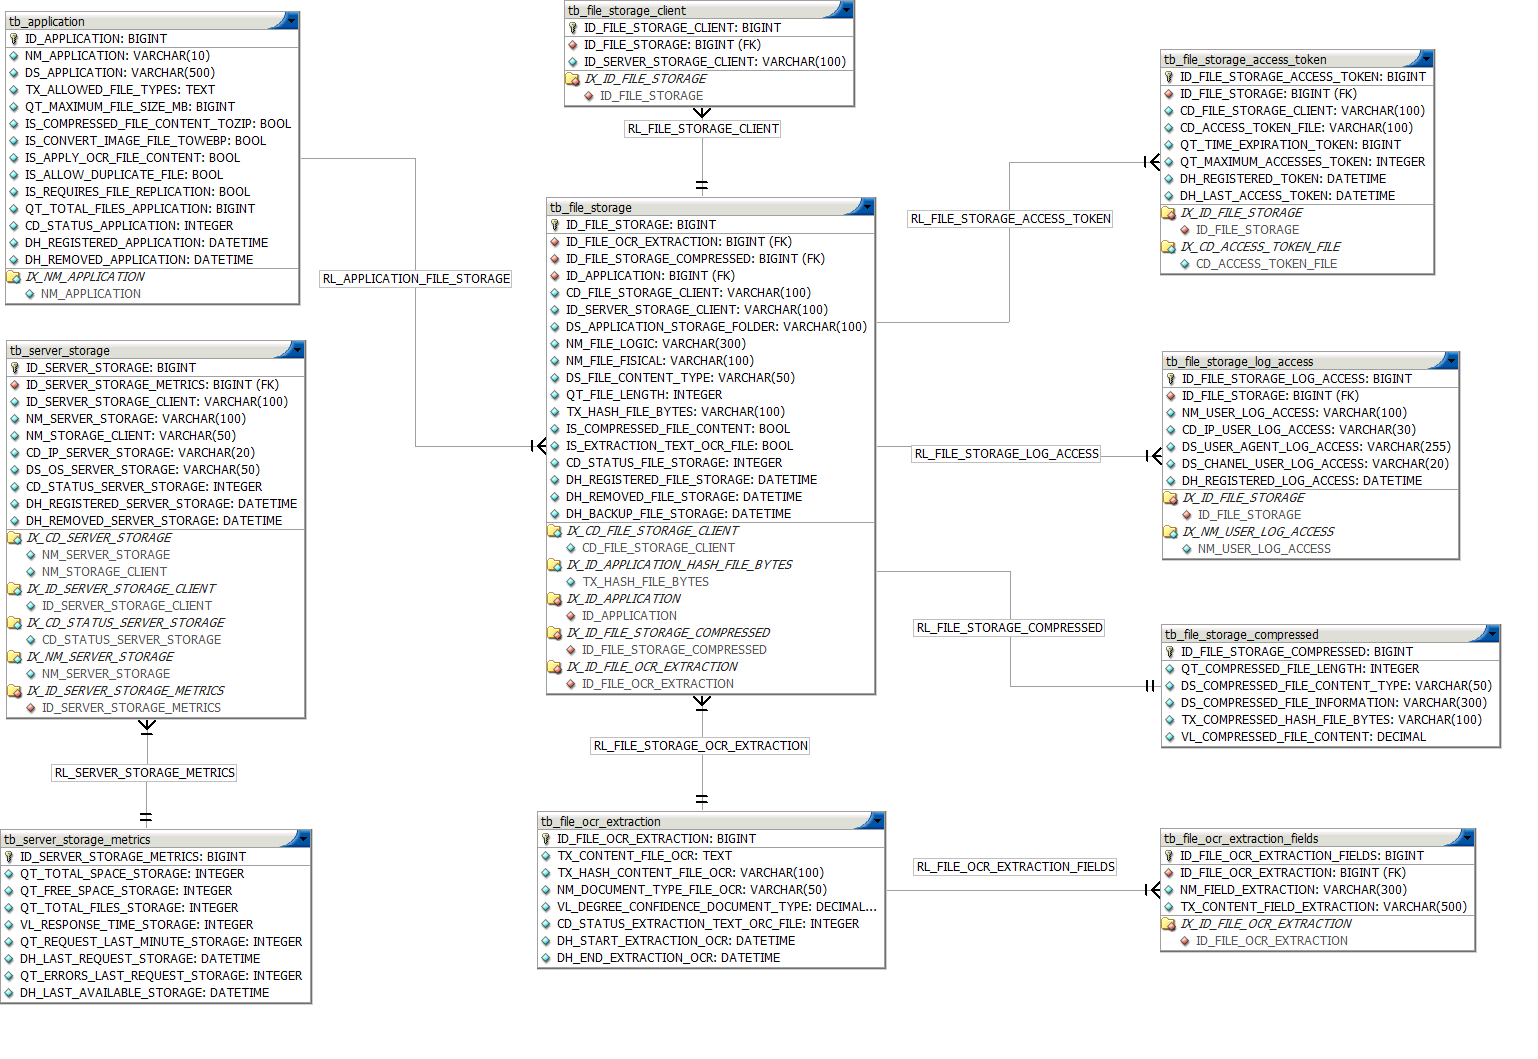
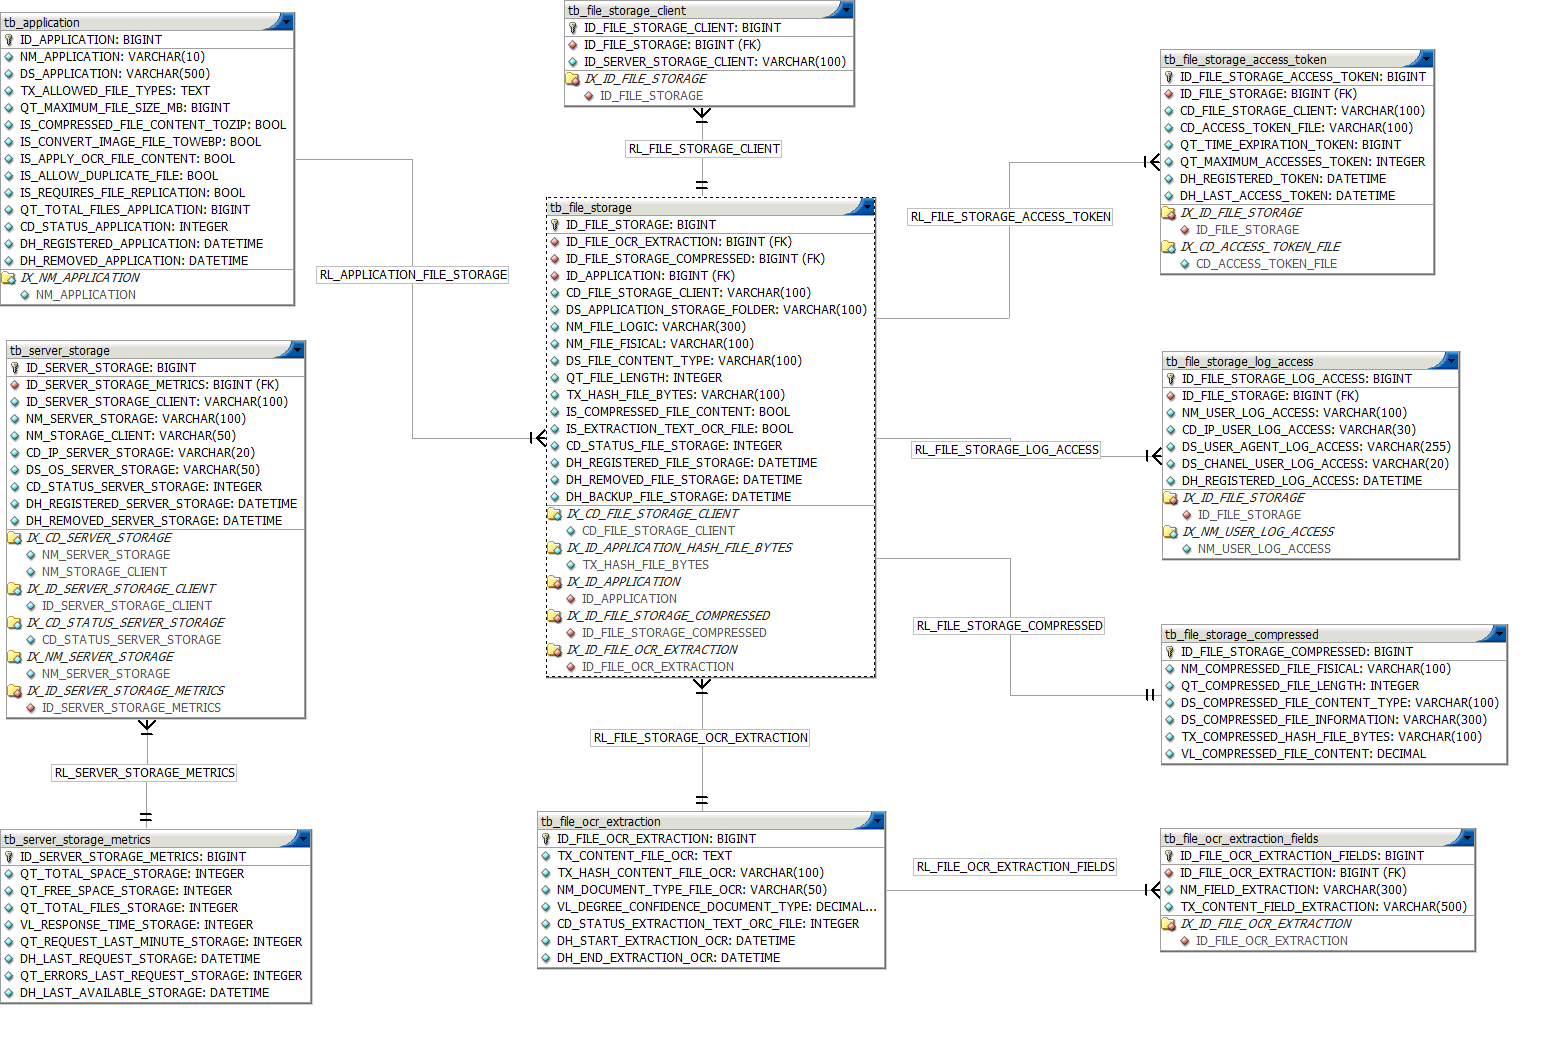
Melhoria na implementação da recuperação de arquivos do servidor e ajuste na modelagem de dados.

diff --git a/meshstorage-server/src/main/java/br/com/devd2/meshstorageserver/services/FileStorageService.java b/meshstorage-server/src/main/java/br/com/devd2/meshstorageserver/services/FileStorageService.java
@@ -106,28 +106,34 @@ public class FileStorageService {
         var fileStorageMessage = new FileDownloadMessage();
         fileStorageMessage.setIdFile(fileStorage.getIdFile());
         fileStorageMessage.setFileName(fileStorage.getFileFisicalName());
+        if (fileStorage.isCompressedFileContent() && fileStorage.getFileCompressed() != null)
+            fileStorageMessage.setFileName(fileStorage.getFileCompressed().getCompressedFileFisicalName());
         fileStorageMessage.setApplicationStorageFolder(fileStorage.getApplicationStorageFolder());
         try {
 
+            //TODO implementar para retornar em qual ServerStorage o arquivo foi recurado... ;)
             var fileStorageClientDownload = downloadFileStorageClient(fileStorage.getListFileStorageClient(), fileStorageMessage);
 
             //Carregar os dados do arquivo.
             byte[] bytesFile = FileBase64Util.base64ToBytes(fileStorageClientDownload.getDataBase64());
-            if (fileStorage.isCompressedFileContent()) {
+            if (fileStorage.isCompressedFileContent() && fileStorage.getFileCompressed() != null
+                    && !FileContentTypesEnum.WEBP.getContentType().equals(fileStorage.getFileCompressed()
+                    .getCompressedFileContentType())) {
                 bytesFile = FileUtil.descompressZipFileContent(bytesFile);
             }
 
             //Verificar se o hash do arquivo de download está conforme o armazenado no upload ;)
             var hashFileDownload = FileUtil.hashConteudoBytes(bytesFile);
             var hashFileEntity = fileStorage.getHashFileBytes();
-            if (fileStorage.isCompressedFileContent() && fileStorage.getFileCompressed()!=null &&
-                    fileStorage.getFileCompressed().getCompressedHashFileBytes()!=null &&
-                    !fileStorage.getFileCompressed().getCompressedHashFileBytes().isEmpty()) {
+            if (fileStorage.isCompressedFileContent() && fileStorage.getFileCompressed()!=null
+                    && FileContentTypesEnum.WEBP.getContentType().equals(fileStorage.getFileCompressed()
+                    .getCompressedFileContentType())) {
                 hashFileEntity = fileStorage.getFileCompressed().getCompressedHashFileBytes();
             }
             if (!hashFileEntity.equals(hashFileDownload))
                 log.warn("Arquivo [{}] com HASH diferente, esse arquivo pode ter sido manipulado no Storage!",
                         pathFileStorage);
+            //TODO adicionar na mensagem o Id ServerStorage onde o arquivo está ;)
 
             fileStorage.setFileContent(bytesFile);
 
@@ -199,6 +205,7 @@ public class FileStorageService {
             int lengthBytesCompressed = 0;
             String fileCompressionInformation = "";
             String contentTypeFile = file.getContentType();
+            String nameFileCompressed = "";
             String hashFileBytesCompressed = "";
             String contentTypeFileCompressed = "";
             double percentualFileCompressed = 0;
@@ -219,14 +226,14 @@ public class FileStorageService {
                 try {
                     bytesFile = FileUtil.compressZipFileContent(nomeFisicoArquivo, bytesFile);
                     lengthBytesCompressed = bytesFile.length;
-                    nomeFisicoArquivo = FileUtil.changeFileNameExtension(nomeFisicoArquivo, FileContentTypesEnum.ZIP.getExtension());
+                    nameFileCompressed = FileUtil.changeFileNameExtension(nomeFisicoArquivo, FileContentTypesEnum.ZIP.getExtension());
                     percentualFileCompressed = 100.0 - ((double) lengthBytesCompressed / lengthBytes * 100);
                     fileCompressionInformation = contentTypeFile + " >> " + FileContentTypesEnum.ZIP.getContentType() +
                             " [compressão de: " + HelperFormat.formatPercent(percentualFileCompressed) + "]";
                     isFileCompressedContent = true;
                     //Como a conversão foi bem sucedida precisamos gerar o HASH dos bytes do arquivo comprimido.
                     hashFileBytesCompressed = FileUtil.hashConteudoBytes(bytesFile);
-                    contentTypeFileCompressed = FileContentTypesEnum.ZIP.getContentType();
+                    contentTypeFileCompressed = contentTypeFile; //Como o arquivo é descompactado, manter o memso.
                 } catch (Exception error) {
                     log.error("Erro ao realizar compressão do arquivo.", error);
                 }
@@ -240,8 +247,9 @@ public class FileStorageService {
                     byte[] bytesFileWebp = FileUtil.convertImagemToWebp(bytesFile, quality_compressed_webp);
                     if (bytesFileWebp.length != 0 && bytesFileWebp.length < lengthBytes) {
                         lengthBytesCompressed = bytesFileWebp.length;
-                        nomeFisicoArquivo = FileUtil.changeFileNameExtension(nomeFisicoArquivo,
+                        nameFileCompressed = FileUtil.changeFileNameExtension(nomeFisicoArquivo,
                                 FileContentTypesEnum.WEBP.getExtension());
+                        nomeFisicoArquivo = nameFileCompressed; //Manter o nome.
                         percentualFileCompressed = 100.0 - ((double) bytesFileWebp.length / lengthBytes * 100);
                         fileCompressionInformation = contentTypeFile + " >> " + FileContentTypesEnum.
                                 WEBP.getContentType() + " [quality: " + quality_compressed_webp + ", compressão de: " +
@@ -271,6 +279,7 @@ public class FileStorageService {
             //Informações da compressão do arquivo...
             if (isFileCompressedContent) {
                 var fileStorageCompressedEntity = new FileStorageCompressed();
+                fileStorageCompressedEntity.setCompressedFileFisicalName(nameFileCompressed);
                 fileStorageCompressedEntity.setCompressedFileLength(lengthBytesCompressed);
                 fileStorageCompressedEntity.setCompressedFileContentType(contentTypeFileCompressed);
                 fileStorageCompressedEntity.setCompressionFileInformation(fileCompressionInformation);

diff --git a/meshstorage-server/src/main/java/br/com/devd2/meshstorageserver/services/cache/ServerStorageCache.java b/meshstorage-server/src/main/java/br/com/devd2/meshstorageserver/services/cache/ServerStorageCache.java
@@ -4,12 +4,16 @@ import br.com.devd2.meshstorageserver.entites.ServerStorage;
 import br.com.devd2.meshstorageserver.entites.ServerStorageMetrics;
 import br.com.devd2.meshstorageserver.models.enums.ServerStorageStatusEnum;
 import br.com.devd2.meshstorageserver.repositories.ServerStorageRepository;
+import com.github.benmanes.caffeine.cache.Cache;
+import com.github.benmanes.caffeine.cache.Caffeine;
 import lombok.extern.slf4j.Slf4j;
 import org.springframework.beans.factory.annotation.Value;
 import org.springframework.stereotype.Service;
 
+import java.time.Duration;
 import java.util.*;
 import java.util.concurrent.ConcurrentHashMap;
+import java.util.concurrent.ConcurrentMap;
 import java.util.stream.Collectors;
 
 @Slf4j
@@ -26,6 +30,14 @@ public class ServerStorageCache {
     private double weight_request_last_minute;
     @Value("${weight-errors-last-request:0}")
     private double weight_errors_last_request;
+
+    //Chave de cache para recuperar o Score, se existir.
+    public record MetricKeyScore(String id,
+            long free, long total, long resp, int req, int err) {}
+    private Cache<MetricKeyScore, Double> cacheScore = Caffeine.newBuilder()
+            .expireAfterWrite(Duration.ofMinutes(5)) //5 Minutos no cache
+            .maximumSize(10_000)
+            .build();
 
     public ServerStorageCache(ServerStorageRepository serverStorageRepository) {
         this.serverStorageRepository = serverStorageRepository;
@@ -171,29 +183,53 @@ public class ServerStorageCache {
         int maxRequestLastMinute = listMetricsAvaliableStorages.stream()
                 .mapToInt(ServerStorageMetrics::getRequestLastMinute).max().orElse(0);
 
-        var score = calcScore(storage.getMetrics(), maxResponseTime, maxRequestLastMinute);
-        log.info("ServerStorage: {} => Score: {}", storage.getIdServerStorageClient(), score);
-        return score;
+        var metrics = storage.getMetrics();
+
+        var keyMetrics = new MetricKeyScore(storage.getIdServerStorageClient(),
+                metrics.getFreeSpace(), metrics.getTotalSpace(),
+                metrics.getResponseTime(), metrics.getRequestLastMinute(), metrics.getErrosLastRequest());
+
+        Double scoreDouble = null;
+        scoreDouble = cacheScore.get(keyMetrics, k ->
+                calcScore(storage.getMetrics(), maxResponseTime, maxRequestLastMinute));
+
+        if (log.isDebugEnabled())
+            log.debug("ServerStorage: {} => Score: {}", storage.getIdServerStorageClient(), scoreDouble);
+
+        return scoreDouble == null ? 0 : scoreDouble;
 
     }
 
     /**
      * Responsável por calcular o Score
-     * @param storageMetrics - Métricas do Server Storage
-     * @param maxResponseTime - Tempo máximo de requisição de todos os Server Storages ativos.
-     * @param maxRequestLastMinute - Quantidade máxima de requisições nos últimos 10 minutos.
+     * @param metrics - Métricas do Server Storage
+     * @param maxRespTime - Tempo máximo de requisição de todos os Server Storages ativos.
+     * @param maxReqsMinute - Quantidade máxima de requisições nos últimos 10 minutos.
      * @return Score calculado.
      */
-    private double calcScore(ServerStorageMetrics storageMetrics, long maxResponseTime, int maxRequestLastMinute) {
-        double freeSpace  = storageMetrics.getTotalSpace() !=0 ?
-                ((double) storageMetrics.getFreeSpace() / storageMetrics.getTotalSpace()) : 0; // 0‑1
-        double respTime   = maxResponseTime != 0 ?
-                ((double) storageMetrics.getResponseTime() / maxResponseTime) : 0;             // 0‑1 (quanto MAIOR = pior)
-        double reqsMinute = maxRequestLastMinute != 0 ?
-                ((double) storageMetrics.getRequestLastMinute() / maxRequestLastMinute) : 0;   // 0‑1
-        double errsMinute = storageMetrics.getErrosLastRequest();                              // 0‑1
-        return  ((weight_free_space * freeSpace) - (weight_response_time * respTime) -
-                (weight_request_last_minute * reqsMinute) - (weight_errors_last_request * errsMinute));
+    private double calcScore(ServerStorageMetrics metrics, long maxRespTime, int maxReqsMinute) {
+
+        int maxErrsMinute = metrics.getErrosLastRequest();
+        /* Normaliza cada métrica para 0..1 (quanto maior, melhor) */
+        double free   = ratio(metrics.getFreeSpace(), metrics.getTotalSpace());     // ↑ bom
+        double rtGood = 1.0 - ratio(metrics.getResponseTime(),      maxRespTime);   // ↓ bom
+        double load   = 1.0 - ratio(metrics.getRequestLastMinute(), maxReqsMinute); // ↓ bom
+        double errs   = 1.0 - ratio(metrics.getErrosLastRequest(),  maxErrsMinute); // ↓ bom
+
+        /* pesos (soma = 1.0) */
+        double score =  weight_free_space           * free +
+                        weight_response_time        * rtGood +
+                        weight_request_last_minute  * load +
+                        weight_errors_last_request  * errs;
+
+        /* Garante dentro de 0..1, caso algum valor extrapole */
+        return Math.max(0, Math.min(1, score));
+
+    }
+
+    /** calcula razão protegendo divisão por zero  */
+    private static double ratio(long part, long total) {
+        return total == 0 ? 0.0 : (double) part / total; // 0‥1
     }
 
 }

diff --git a/meshstorage-server/src/main/java/br/com/devd2/meshstorageserver/services/ServerStorageService.java b/meshstorage-server/src/main/java/br/com/devd2/meshstorageserver/services/ServerStorageService.java
@@ -11,6 +11,8 @@ import br.com.devd2.meshstorageserver.services.cache.ServerStorageCache;
 import lombok.extern.slf4j.Slf4j;
 import org.springframework.scheduling.annotation.Async;
 import org.springframework.stereotype.Service;
+import org.springframework.transaction.annotation.Propagation;
+import org.springframework.transaction.annotation.Transactional;
 
 import java.time.LocalDateTime;
 import java.util.Comparator;
@@ -237,6 +239,7 @@ public class ServerStorageService {
      * @param responseTime - Tempo de resposta a requisição para o Servidor de Armanzenamento.
      */
     @Async("metricsResponseTimeAndRequestCount")
+    @Transactional(propagation = Propagation.REQUIRES_NEW)
     public void updateMetricsResponseTimeAndRequestCount(String idServerStorageClient, long responseTime) {
 
         if (idServerStorageClient == null || idServerStorageClient.isEmpty()) {
@@ -253,7 +256,7 @@ public class ServerStorageService {
             return;
         }
 
-        log.info("Atualizar ServerStorageClient: {} - Tempo Resposta: {} e adicionar +1 requisição.",
+        log.debug("Atualizar ServerStorageClient: {} - Tempo Resposta: {} e adicionar +1 requisição.",
                 idServerStorageClient, responseTime);
 
         /*
@@ -287,7 +290,8 @@ public class ServerStorageService {
      * Realiza atualização nas métricas do Servidor de Armazenamento quantidade de Erros.
      * @param idServerStorageClientErrors - List[String] de Ids de Servidores que geraram erro de cominucação.
      */
-    @Async("metricErrors")
+    @Async("metricsErrors")
+    @Transactional(propagation = Propagation.REQUIRES_NEW)
     public void updateMetricsErrors(List<String> idServerStorageClientErrors) {
 
         if (idServerStorageClientErrors == null || idServerStorageClientErrors.isEmpty()) {
@@ -306,7 +310,7 @@ public class ServerStorageService {
                 return;
             }
 
-            log.info("Atualizar ServerStorageClient: {} - erro identificado.", idServerStorageClient);
+            log.debug("Atualizar ServerStorageClient: {} - erro identificado.", idServerStorageClient);
 
             /*
              Regras:

diff --git a/meshstorage-server/src/main/java/br/com/devd2/meshstorageserver/controllers/FileStorageController.java b/meshstorage-server/src/main/java/br/com/devd2/meshstorageserver/controllers/FileStorageController.java
@@ -72,9 +72,12 @@ public class FileStorageController {
             @PathVariable String idFile) {
         try {
             FileStorage file = fileStorageService.getFile(idFile);
+            String contentType = file.getFileContentType();
+            if (file.isCompressedFileContent() && file.getFileCompressed() != null)
+                contentType = file.getFileCompressed().getCompressedFileContentType();
             return ResponseEntity.ok()
                     .header(HttpHeaders.CONTENT_DISPOSITION, "attachment; filename=\"" + file.getFileFisicalName() + "\"")
-                    .header(HttpHeaders.CONTENT_TYPE, file.getFileContentType())
+                    .header(HttpHeaders.CONTENT_TYPE, contentType)
                     .body(file.getFileContent());
         } catch (ApiBusinessException error_business) {
             return ResponseEntity.badRequest().body(new ErrorResponse(HttpStatus.BAD_REQUEST.value(), error_business.getMessage()));
@@ -203,9 +206,12 @@ public class FileStorageController {
                                            @Parameter(description = "Token (chave acesso) ao arquivo para download") String token) {
         try {
             FileStorage file = fileStorageService.getFileByToken(token);
+            String contentType = file.getFileContentType();
+            if (file.isCompressedFileContent() && file.getFileCompressed() != null)
+                contentType = file.getFileCompressed().getCompressedFileContentType();
             return ResponseEntity.ok()
                     .header(HttpHeaders.CONTENT_DISPOSITION, "attachment; filename=\"" + file.getFileFisicalName() + "\"")
-                    .header(HttpHeaders.CONTENT_TYPE, file.getFileContentType())
+                    .header(HttpHeaders.CONTENT_TYPE, contentType)
                     .body(file.getFileContent());
         } catch (ApiBusinessException error_business) {
             return ResponseEntity.badRequest().body(new ErrorResponse(HttpStatus.BAD_REQUEST.value(), error_business.getMessage()));

diff --git a/meshstorage-server/src/main/java/br/com/devd2/meshstorageserver/entites/FileStorageCompressed.java b/meshstorage-server/src/main/java/br/com/devd2/meshstorageserver/entites/FileStorageCompressed.java
@@ -17,6 +17,12 @@ public class FileStorageCompressed {
     private Long id;
 
     /**
+     * Nome Físico do arquivo no Servidor de Arquivo, após a compressão (ZIP ou WEBP).
+     */
+    @Column(name = "NM_COMPRESSED_FILE_FISICAL")
+    private String compressedFileFisicalName;
+
+    /**
      * Tamanho em bytes do arquivo apos a compressão (ZIP ou WEBP).
      */
     @Column(name = "QT_COMPRESSED_FILE_LENGTH")
